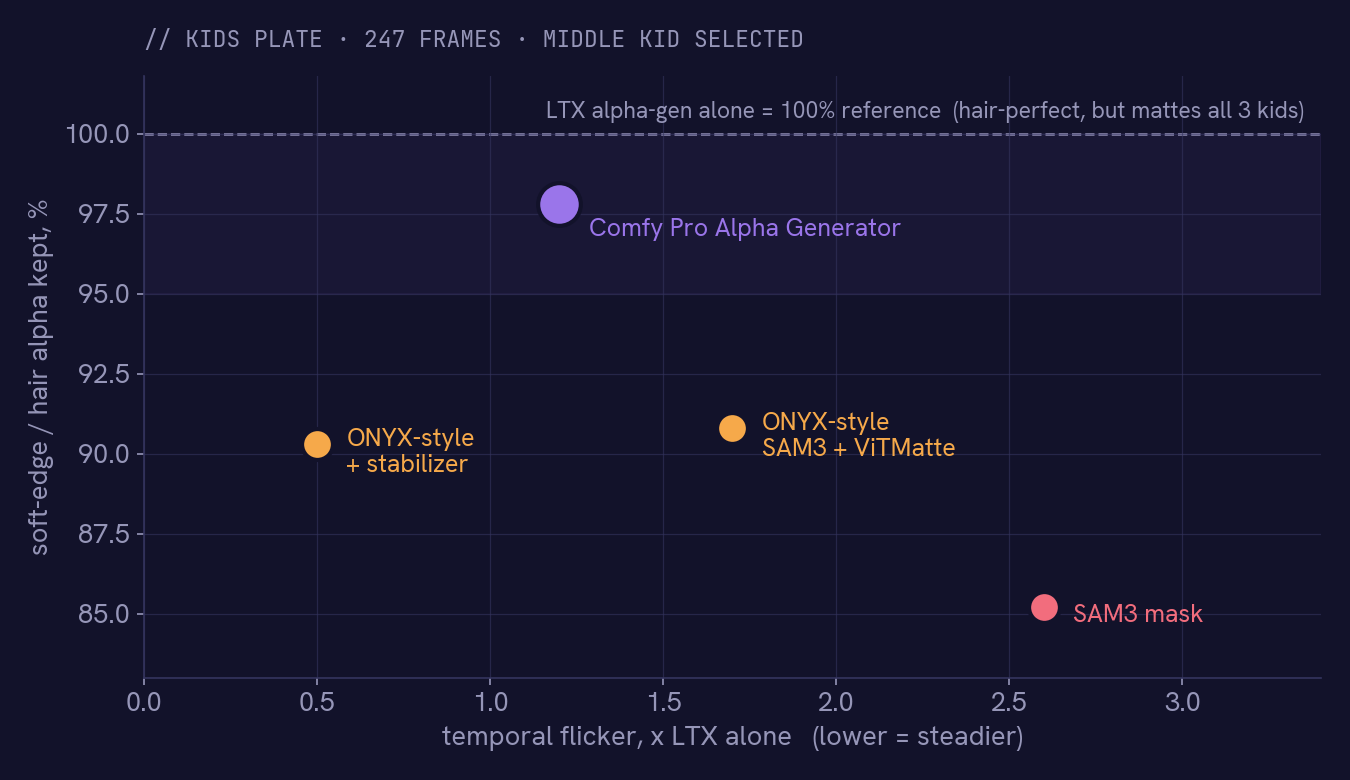
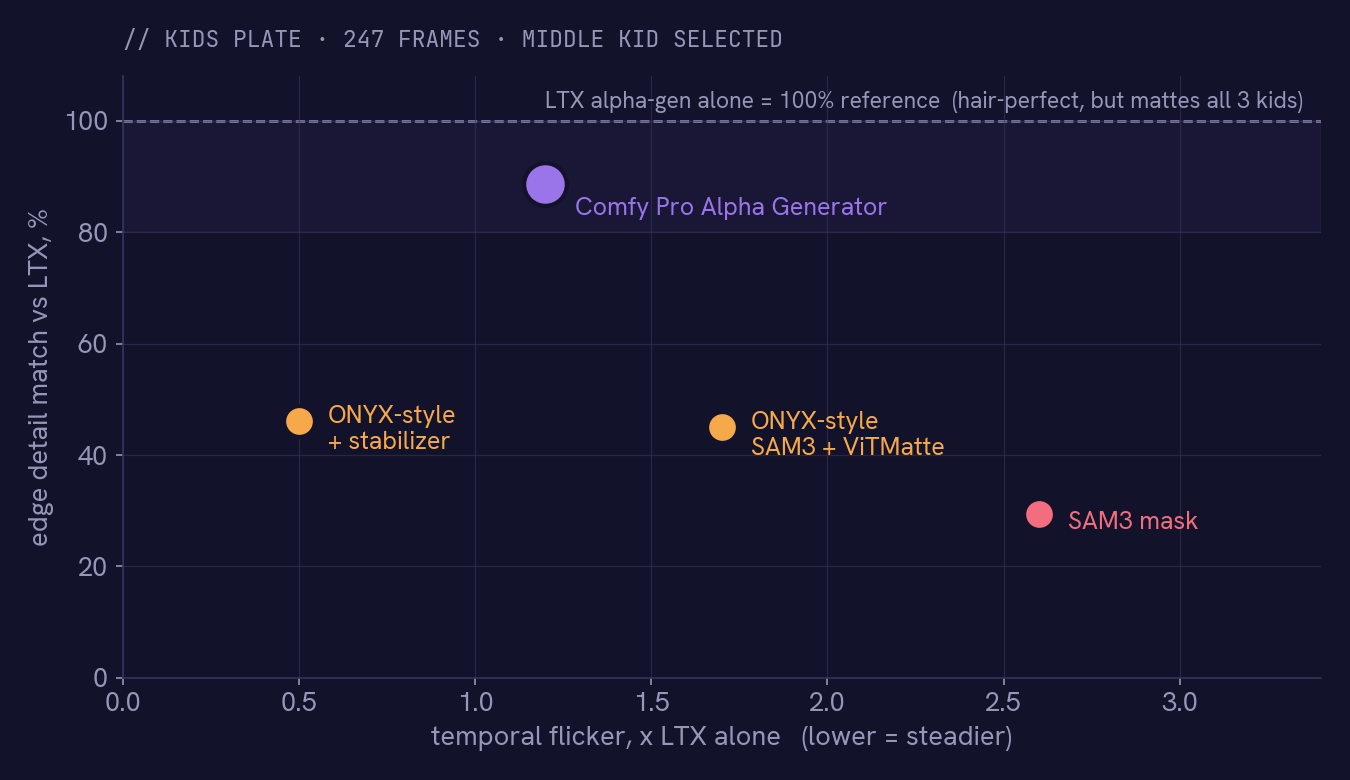
Measure edge detail, not summed alpha: new benchmark numbers
The old "hair kept" metric summed each matte over LTX's soft pixels
uncapped, so a solid mask got credit for filling the gaps between strands
and a blob with no hair still scored 85%. "Edge detail match"
(1 - sum|matte - LTX| / sum LTX on the same pixels) counts over-fill and
missing strands as error.

Kids benchmark, 247 frames, middle kid: SAM3 mask 29.4%, ONYX-style
45.0%, ONYX-style + stabilizer 46.1%, this node 88.7% (was 85.2 / 90.8 /
90.3 / 97.8). Also reports hair outside the SAM3 outline (ONYX-style 31%,
this node 89%).

- README results table, methodology (incl. why the old metric was
  replaced), QC badge table
- quality_scatter.png and hero_compare.jpg labels regenerated
- node QC badge: "detail match" (green >= 80%), same formula

diff --git a/web/comfy_pro_alpha_generator.js b/web/comfy_pro_alpha_generator.js
@@ -1020,9 +1020,11 @@ class Picker {
             const f = info.flicker_x;
             kids.push(badge("flicker", `${f.toFixed(2)}× LTX`, f <= 1.3 ? "sm-g" : f <= 2 ? "sm-a" : "sm-r"));
         }
-        if (vsLtx && info.hair_pct != null) {
-            const h = Math.min(info.hair_pct, 100);  // the isolated pass can keep MORE soft edge than LTX alone
-            kids.push(badge("soft edge kept", `${h.toFixed(1)}%`, h >= 95 ? "sm-g" : h >= 85 ? "sm-a" : "sm-r"));
+        if (vsLtx && info.detail_pct != null) {
+            const d = info.detail_pct;  // edge vs LTX alone: kids benchmark 88.7% (ViTMatte 45%, SAM3 mask 29%)
+            const b = badge("detail match", `${d.toFixed(1)}%`, d >= 80 ? "sm-g" : d >= 60 ? "sm-a" : "sm-r");
+            b.title = "How closely the edge matches LTX alpha-gen's hair and soft detail (100% = identical).";
+            kids.push(b);
         }
         if (info.ltx_cover != null) {
             const c = info.ltx_cover;

diff --git a/_engine.py b/_engine.py
@@ -237,7 +237,8 @@ def ltx_frames(n):
 # ---------------------------------------------------------------- QC (measure_matte.py)
 
 def qc(gray, sel, ltx, alpha, others=None):
-    """Motion-compensated flicker ratio vs LTX alone + share of LTX hair kept. Returns dict."""
+    """Motion-compensated flicker ratio vs LTX alone + edge detail match vs LTX (1 - sum|alpha - LTX| / sum LTX on
+    LTX's soft pixels near the subject: filling the gaps between strands and missing strands both count). Returns dict."""
     n, h, w = gray.shape
     if n < 3:
         return {}
@@ -260,7 +261,7 @@ def qc(gray, sel, ltx, alpha, others=None):
         for q, acc in ((ltx, fl_ltx), (alpha, fl_out)):
             pred = 0.5 * (cv2.remap(_f32(q[t - 1]), *maps[0], cv2.INTER_LINEAR) + cv2.remap(_f32(q[t + 1]), *maps[1], cv2.INTER_LINEAR))
             acc.append(np.abs(_f32(q[t]) - pred)[m].mean())
-    tot = kept = 0.0
+    tot = err = 0.0
     for f in range(n):
         T = sel[f] > .5
         lf = _f32(ltx[f])
@@ -269,7 +270,7 @@ def qc(gray, sel, ltx, alpha, others=None):
         dO = cv2.distanceTransform((~O).astype(np.uint8), cv2.DIST_L2, 5)
         hs = (lf > .02) & (lf < .9) & (dT < dO)
         tot += float(lf[hs].sum())
-        kept += float(_f32(alpha[f])[hs].sum())
+        err += float(np.abs(_f32(alpha[f])[hs] - lf[hs]).sum())
     base = float(np.mean(fl_ltx)) if fl_ltx else 0.0
     return {"flicker_x": float(np.mean(fl_out)) / base if base else 0.0,
-            "hair_pct": float(kept / tot * 100) if tot else 100.0}
+            "detail_pct": max(0.0, 1 - err / tot) * 100 if tot else 100.0}

diff --git a/README.md b/README.md
@@ -41,19 +41,19 @@ and each one is missing half of the answer:
 Measured on a 247-frame plate (three kids, arms around each other), matting only the middle kid.
 Every method gets the same SAM3 selection.
 
-<p align="center"><img src="docs/images/quality_scatter.png" width="760" alt="hair kept vs flicker"></p>
+<p align="center"><img src="docs/images/quality_scatter.png" width="760" alt="edge detail match vs flicker"></p>
 
-| Method | Selects one subject | Hair / soft edge kept | Flicker vs LTX alone |
-|---|:---:|:---:|:---:|
-| LTX alpha-gen alone | no (mattes everyone) | 100% *(reference)* | 1.0x |
-| SAM3 mask | yes | 85.2% | 2.6x |
-| ONYX-style: SAM3 + ViTMatte | yes | 90.8% | 1.7x |
-| ONYX-style + temporal stabilizer | yes | 90.3% | **0.5x** |
-| **Comfy Pro Alpha Generator** | **yes** | **97.8%** | 1.2x |
+| Method | Selects one subject | Edge detail match | Hair outside the SAM3 outline | Flicker vs LTX alone |
+|---|:---:|:---:|:---:|:---:|
+| LTX alpha-gen alone | no (mattes everyone) | 100% *(reference)* | 100% | 1.0x |
+| SAM3 mask | yes | 29.4% | 0% | 2.6x |
+| ONYX-style: SAM3 + ViTMatte | yes | 45.0% | 31.3% | 1.7x |
+| ONYX-style + temporal stabilizer | yes | 46.1% | 31.8% | **0.5x** |
+| **Comfy Pro Alpha Generator** | **yes** | **88.7%** | **88.7%** | 1.2x |
 
 **How to read it**
-- **Hair:** it keeps 97.8% of LTX's soft-edge alpha while matting one subject only. The ViTMatte route
-  tops out near 91%: it keeps a soft halo but not the strands (see the zoom above).
+- **Hair:** its edge matches LTX's generative hair at 88.7% while matting one subject only. The ViTMatte route
+  reaches 45%: it keeps a soft halo but not the strands, and a SAM3 mask reaches 29% (see the zoom above).
 - **Stability:** against background, it flickers the same as LTX alone (0.0112 vs 0.0109 mean error per
   pixel). The extra 0.2x comes from the few pixels where the subject touches someone else.
 - **Honest trade-off:** a temporally stabilized ViTMatte matte is *steadier* than LTX (0.5x), because it is smooth
@@ -65,9 +65,14 @@ Every method gets the same SAM3 selection.
 - **Flicker** is motion compensated: each frame is predicted from its neighbours warped by DIS optical flow on the
   plate, and only the subject's outline band where the flow explains the plate (no occlusion) is scored. Plain
   frame-to-frame differences punish sharp edges that move, so they are not used.
-- **Hair kept** is the share of LTX's soft alpha (0.02 to 0.9) that lies nearer the subject than any other person,
-  which each method keeps. It uses LTX as the reference, so it favours LTX-based methods. The hair zoom shows the
-  same difference visually.
+- **Edge detail match** compares each matte with LTX's soft alpha (0.02 to 0.9) on the pixels nearer the subject
+  than any other person: `1 - sum|matte - LTX| / sum(LTX)`. Filling in the gaps between strands and missing strands
+  both count as error. **Hair outside the SAM3 outline** is the share of LTX's soft alpha beyond the SAM3 mask that
+  a method recovers (a hard mask scores 0% by definition). Both use LTX as the reference, so they favour LTX-based
+  methods; the hair zoom shows the same difference visually.
+- An earlier version of this table used "hair kept", the plain sum of each matte over those pixels (SAM3 85.2%,
+  ONYX-style 90.8%, this node 97.8%). It gave a solid mask credit for filling the gaps between strands, so it
+  hid most of the difference and was replaced.
 - **ONYX-style** is an emulation of ONYX Ai Matte v3's published pipeline (SAM3, then a trimap with erode 10 /
   dilate 15, then ViTMatte, per frame), plus this node's optical-flow stabilizer for the "+ stabilizer" row.
   The commercial ONYX plugin itself was not tested.
@@ -199,7 +204,7 @@ The node walks you through three steps (**Plate → Subject → Render**); it on
 | Badge | Meaning | Green when |
 |---|---|---|
 | flicker | Motion-compensated flicker vs LTX alone | ≤ 1.3x |
-| soft edge kept | Share of LTX's soft edge (hair, fur, dust) that survived | ≥ 95% |
+| detail match | How closely the edge matches LTX's hair, fur and dust | ≥ 80% |
 | LTX cover | How much of the subject LTX matted (the rest uses ViTMatte) | ≥ 90% |
 
 `⚙ Advanced`: frames per chunk, overlap frames, seed, temporal smoothing, trimap erode/dilate, the zone near other
